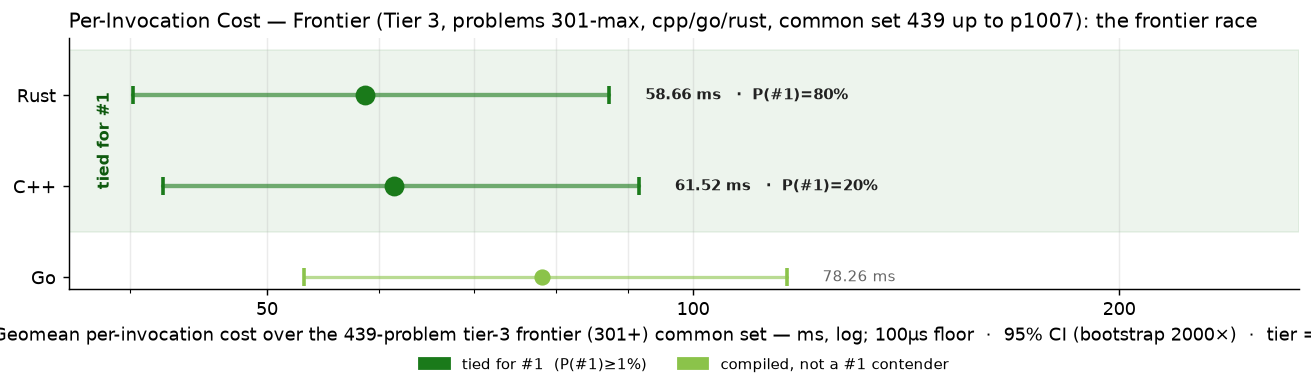
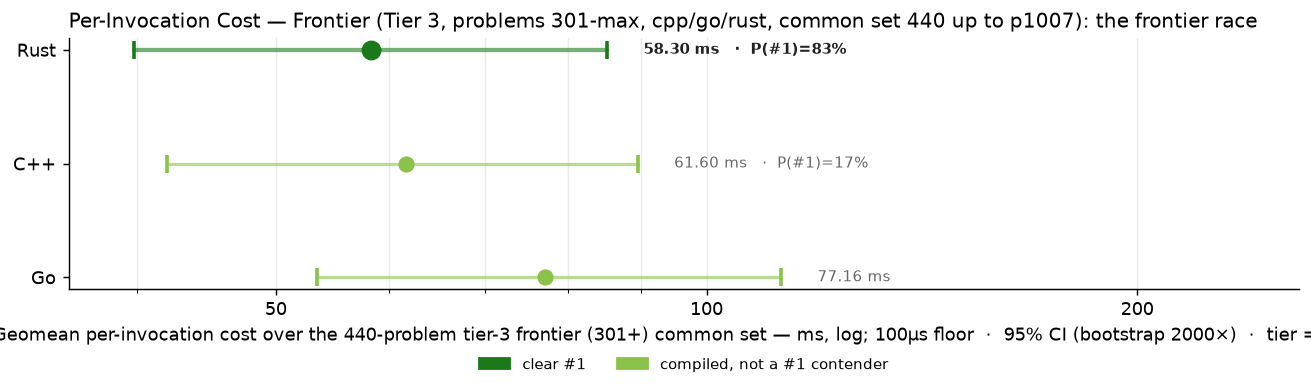
bench: frontier trio solve p0575

diff --git a/RESULTS.md b/RESULTS.md
@@ -1,6 +1,6 @@
 # Project Euler — Cross-Language Benchmarks
 
-> **Scope: 4521 in-scope cells across 1007 problems × tiered languages — 3732 measured (82.5% coverage).**
+> **Scope: 4521 in-scope cells across 1007 problems × tiered languages — 3735 measured (82.6% coverage).**
 > The cross-language ranking below is computed over the **199-problem common set** (problems in 1-200 where every language has a passing measurement) — the apples-to-apples Foundation comparison surface.  Per-tier rankings and coverage detail appear further below.
 > Growing carefully — each new problem and language is audited for state-leak
 > safety, verified for answer correctness, and added only when it cleanly fits the
@@ -70,15 +70,15 @@ Same scatter as the Foundation chart, restricted to the tier-2 active languages 
 
 The frontier verification trio — C++, Go, Rust — on problems above 300. 3-way cross-language agreement is the verification protocol (strictly stronger than 2-way; see JOURNEY.md "Tier Reframing" episode for the p254 lesson that motivated it). Python and Zig are explicitly out of this tier — python's wall cost makes it impractical at level 5+, and zig's role caps at Tier 2.
 
-### Per-Invocation Cost (Common Set, 439 of ≤707 problems in scope)
+### Per-Invocation Cost (Common Set, 440 of ≤707 problems in scope)
 
 ![Per-Invocation Cost — Tier 3](charts/per_iter_total_tier3.png)
 
-| Rank | Language | Geomean (439-problem common set) | Total (sum) | Lines of code | vs Fastest |
+| Rank | Language | Geomean (440-problem common set) | Total (sum) | Lines of code | vs Fastest |
 |------|----------|--------------------:|------------:|--------------:|-----------:|
-| 1 | **Rust** | 58.66 ms | 1277.23 s | 61,766 | 1.00× |
-| 2 | **C++** | 61.52 ms | 1299.20 s | 49,765 | 1.05× |
-| 3 | **Go** | 78.26 ms | 1543.92 s | 63,567 | 1.33× |
+| 1 | **Rust** | 58.30 ms | 1277.24 s | 62,017 | 1.00× |
+| 2 | **C++** | 61.60 ms | 1299.30 s | 49,950 | 1.06× |
+| 3 | **Go** | 77.16 ms | 1543.92 s | 63,888 | 1.32× |
 
 ### Speed vs Code Size
 

diff --git a/per_problem/per_problem_0501-0600.md b/per_problem/per_problem_0501-0600.md
@@ -82,7 +82,7 @@ in tier-1 display order (native → managed → interpreted).
 | **p0572** | — | — | — |
 | **p0573** | — | — | — |
 | **p0574** | — | — | — |
-| **p0575** | — | — | — |
+| **p0575** | 108.66 ms | 4.02 ms | 150.5 µs |
 | **p0576** | — | — | — |
 | **p0577** | 3.5 µs | 5.0 µs | 6.7 µs |
 | **p0578** | — | — | — |
